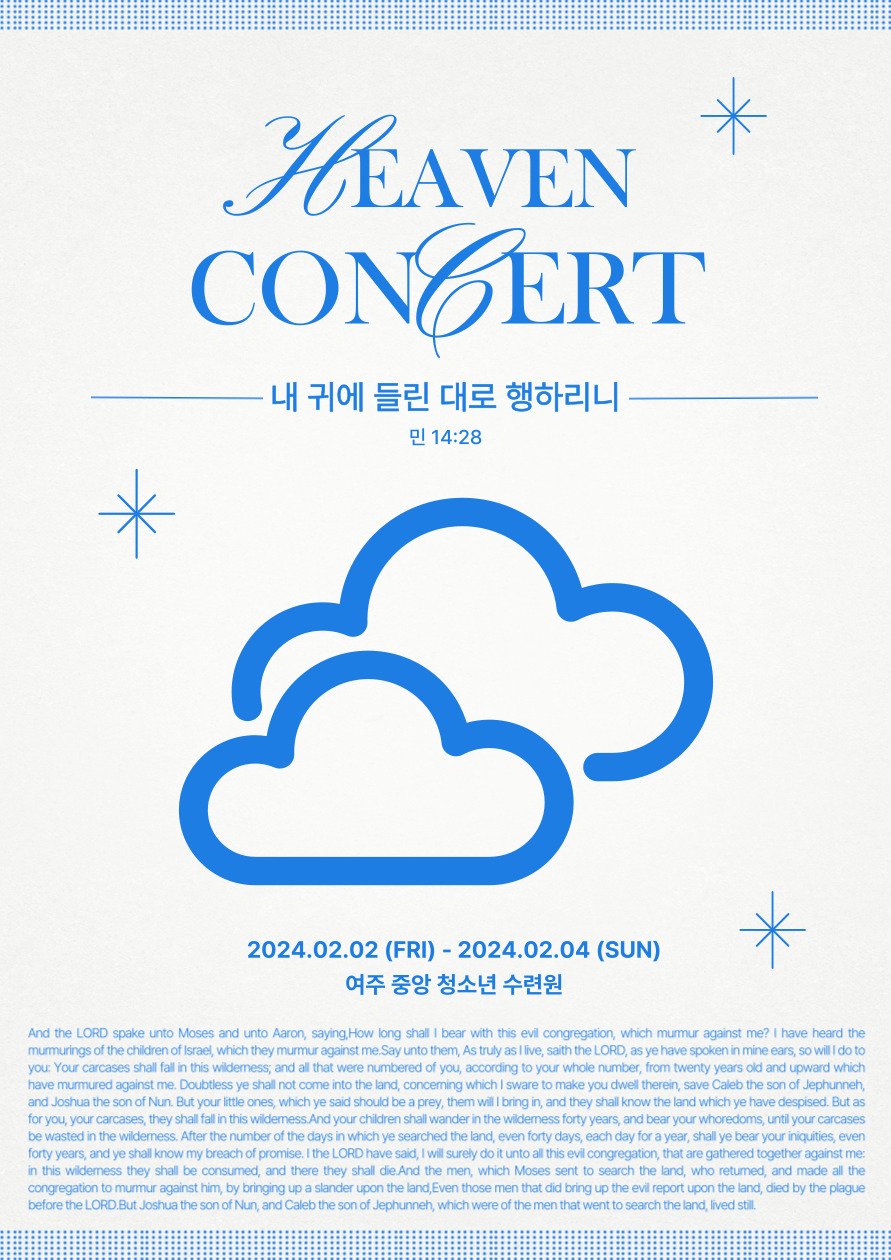
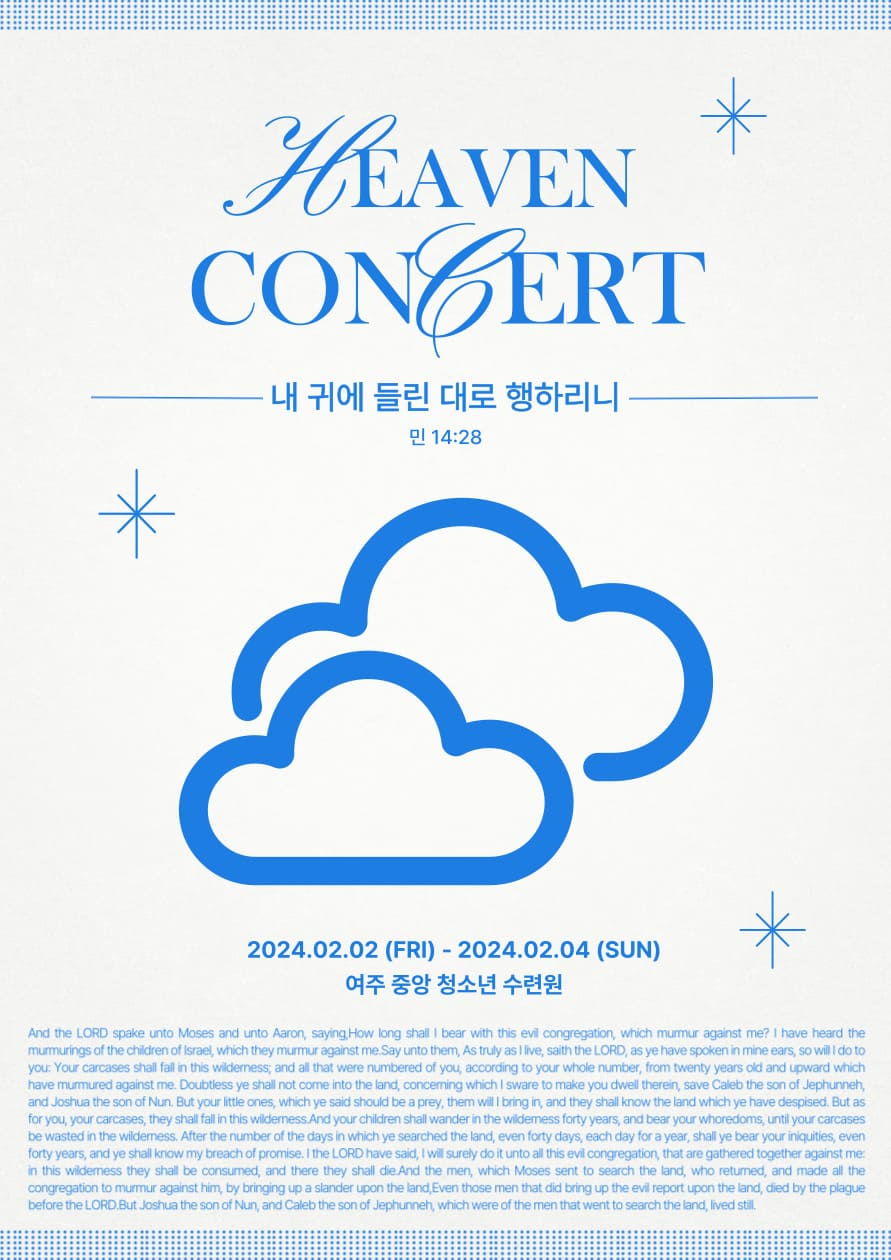
update: 이미지 압축

diff --git a/client/src/pages/detail.tsx b/client/src/pages/detail.tsx
@@ -222,30 +222,34 @@ export default function selectData() {
             </Select>
           }
         </FormControl>
+        {getInputGap()}
         <Stack>
-          {getInputGap()}
-          <Select
-            fullWidth={true}
-            key={userInformation.howToGo}
-            defaultValue={userInformation.howToGo}
-            value={userInformation.howToGo}
-            onChange={(e) =>
-              changeInformation("howToGo", e.target.value.toString())
-            }
-          >
-            <MenuItem value={HowToMove.together}>교회 버스로</MenuItem>
-            <MenuItem value={HowToMove.driveCarWithPerson}>
-              자차 (카풀 가능)
-            </MenuItem>
-            <MenuItem value={HowToMove.rideCar}>
-              카풀 신청 (시간, 장소 기타사항에)
-            </MenuItem>
-            <MenuItem value={HowToMove.goAlone}>대중교통 (여주역)</MenuItem>
-            <MenuItem value={HowToMove.driveCarAlone}>
-              자차 (카풀 불가)
-            </MenuItem>
-            <MenuItem value={HowToMove.etc}>기타 (하단에 메모)</MenuItem>
-          </Select>
+          <FormControl fullWidth={true}>
+            <InputLabel>참석 방법</InputLabel>
+            <Select
+              label="참석 방법"
+              fullWidth={true}
+              key={userInformation.howToGo}
+              defaultValue={userInformation.howToGo}
+              value={userInformation.howToGo}
+              onChange={(e) =>
+                changeInformation("howToGo", e.target.value.toString())
+              }
+            >
+              <MenuItem value={HowToMove.together}>교회 버스로</MenuItem>
+              <MenuItem value={HowToMove.driveCarWithPerson}>
+                자차 (카풀 가능)
+              </MenuItem>
+              <MenuItem value={HowToMove.rideCar}>
+                카풀 신청 (시간, 장소 기타사항에)
+              </MenuItem>
+              <MenuItem value={HowToMove.goAlone}>대중교통 (여주역)</MenuItem>
+              <MenuItem value={HowToMove.driveCarAlone}>
+                자차 (카풀 불가)
+              </MenuItem>
+              <MenuItem value={HowToMove.etc}>기타 (하단에 메모)</MenuItem>
+            </Select>
+          </FormControl>
         </Stack>
         <Stack>
           {getInputGap()}
